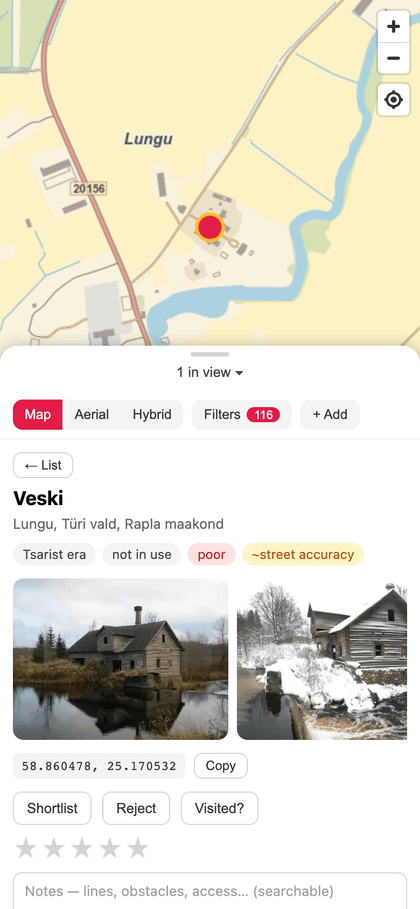
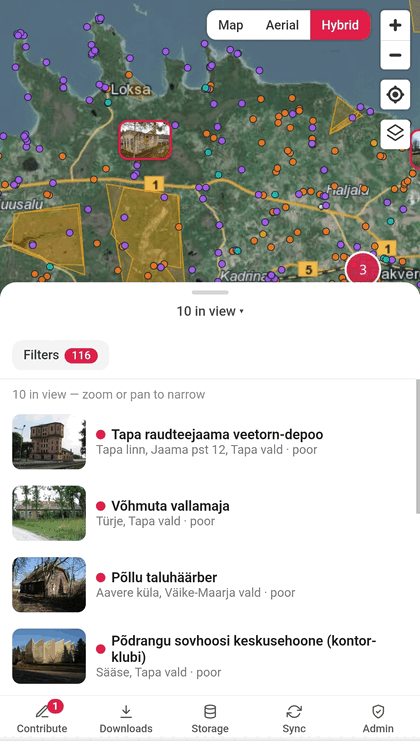
Show the detail panel in the README screenshots, not just the map
Two shots weren't enough to convey triage and the hint-layers panel, so
each of desktop and mobile now gets an overview shot and a detail shot.

diff --git a/README.md b/README.md
@@ -7,8 +7,12 @@ A full-screen map of abandoned buildings ("bandos") in Estonia — potential FPV
 Data comes from the Estonian heritage register's [XX century architecture catalog](https://register.muinas.ee/public.php?menuID=architecture), filtered to buildings that are **not in use** (kasutus: ei kasutata) and in **poor condition** (seisukord: halb). Each spot links back to the register, Google Maps, and Maa-amet's [XGIS](https://xgis.maaamet.ee/xgis2/page/app/maainfo).
 
 <p align="center">
-  <img src="docs/screenshot-desktop.png" alt="Bando Map on desktop — clustered spots across Estonia with the in-view list sidebar" width="672">
-  <img src="docs/screenshot-mobile.png" alt="Bando Map on mobile — detail sheet with photos, triage buttons and rating" width="194">
+  <img src="docs/screenshot-desktop.png" alt="Bando Map on desktop — clustered spots across Estonia with the in-view list sidebar" width="330">
+  <img src="docs/screenshot-desktop-2.png" alt="Bando Map on desktop — spot detail panel with triage state, rating and the hint-layers panel showing ETAK/OSM ruins and UAS airspace zones" width="330">
+</p>
+<p align="center">
+  <img src="docs/screenshot-mobile.png" alt="Bando Map on mobile — clustered spots with the in-view list sheet" width="150">
+  <img src="docs/screenshot-mobile-2.png" alt="Bando Map on mobile — spot detail sheet with photos" width="150">
 </p>
 
 The base map is Maa-amet's own tile service — the same detailed base map, orthophoto, and hybrid layers as the official maainfo app.
